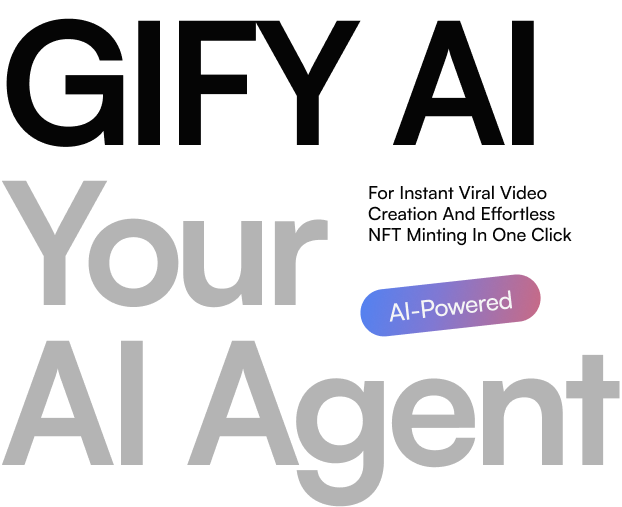
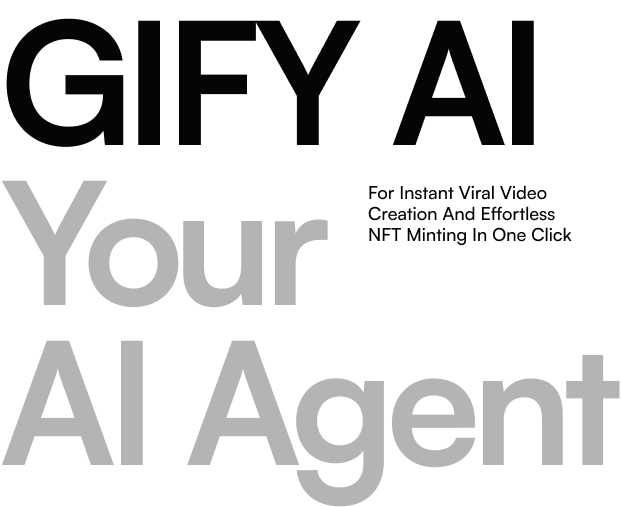
WIP

Changed region(s): [[0.5804, 0.5325, 0.8859, 0.6805]]

diff --git a/src/Components/Chat.jsx b/src/Components/Chat.jsx
@@ -2,14 +2,14 @@
 import { useState } from 'react';
 import chat from '../assets/chat__bg.svg';
 import icon from '../assets/icon.svg';
-import upload from '../assets/upload.png';
 import line from '../assets/line.svg';
-import animate from '../assets/animate.png';
 import loaderImage from '../assets/loader.png';
-import again from '../assets/again.png';
-import download from '../assets/download.png';
-import mint from '../assets/mint.png';
-import check from '../assets/check.png';
+import again from '../assets/again.svg';
+import download from '../assets/download.svg';
+import mint from '../assets/mint.svg';
+import check from '../assets/check.svg';
+import upload from '../assets/upload.svg';
+import animate from '../assets/animate.svg';
 
 const Chat = ({setChatTitle, setChatTitleClass}) => {
   // Состояние может принимать значения "idle", "loading" и "result"
@@ -76,9 +76,11 @@ const Chat = ({setChatTitle, setChatTitleClass}) => {
                 <h2 className="loading-column_title mb-10">NFT Title</h2>
                 <h2 className="loading-column_title mb-10">Description</h2>
                 <div className="loading-column_buttons">
-                  <a href="#" className="check-button">
-                    <img src={check} alt="Check" className="check _scale_hover" />
-                  </a>
+                  <button
+                    className="check-button _scale_hover button color__button"
+                  >
+                    <img src={check} alt="Check" /> Check
+                  </button>
                 </div>
               </>
             ) : (
@@ -88,25 +90,23 @@ const Chat = ({setChatTitle, setChatTitleClass}) => {
                 <h2 className="loading-column_title ">Description</h2>
                 <input type="text" className="loading-column_input" placeholder="Description" />
                 <div className="loading-column_buttons">
-                  <img
-                    src={mint}
-                    alt="Mint"
+                  <button
+                    className="mint _scale_hover button color__button"
                     
-                    className="mint _scale_hover"
                     onClick={() => {setMinted(true); setChatTitle(<>NFT <span>Minted</span></>);
                      setChatTitleClass("chat__title_minted");
                     }}
-                  />
-                  <img
-                    src={download}
-                    alt="Download"
-                    className="download _scale_hover"
+                  >
+                    <img src={mint} alt="Mint" /> Mint
+                  </button>
+                  <button
+                    className="download _scale_hover button black__button"
                     onClick={handleDownload}
-                  />
-                  <img
-                    src={again}
-                    alt="Again"
-                    className="again _scale_hover"
+                     >
+                    <img src={download} alt="Download" /> Download
+                  </button>
+                  <button
+                    className="again _scale_hover button white__button"
                     onClick={() => {
                       setLoadingPhase("idle");
                       setMinted(false);
@@ -114,7 +114,9 @@ const Chat = ({setChatTitle, setChatTitleClass}) => {
                       setChatTitle("Try GIFY AI");
                       setChatTitleClass("");
                     }}
-                  />
+                  >
+                    <img src={again} alt="Again" /> Again
+                  </button>
                 </div>
               </>
             )}
@@ -137,17 +139,14 @@ const Chat = ({setChatTitle, setChatTitleClass}) => {
       </div>
       <div className="chat__form">
         <input id="file" type="file" className="none" onChange={handleFileChange} />
-        <label htmlFor="file">
-          <img src={upload} alt="Upload" className="upload _scale_hover" />
+          <label htmlFor="file" className="upload white__button button _scale_hover">
+            <img src={upload} alt="" /> Upload
         </label>
         <img src={line} alt="Line" className="line" />
         <input className="chat__input" type="text" placeholder="Write your prompt" />
-        <img
-          src={animate}
-          alt="Animate"
-          className={`animate _scale_hover ${!uploadedImage ? 'disabled' : ''}`}
-          onClick={uploadedImage ? handleAnimateClick : null}
-        />
+        <button className={`animate animate black__button button  ${!uploadedImage ? 'disabled' : '_scale_hover'}`} onClick={uploadedImage ? handleAnimateClick : null}>
+            <img src={animate} alt="" /> Animate
+          </button>
       </div>
     </div>
   );

diff --git a/src/index.css b/src/index.css
@@ -197,6 +197,19 @@ background-clip: text;
 
 .try {
    margin-top: 50px;
+   padding: 9px;
+   padding-left: 49px;
+   display: flex;
+   align-items: center;
+   gap: 35px;
+   border-radius: 118.75px;
+background: #22282B;
+   color: #FFF;
+font-family: Satoshi;
+font-size: 29.688px;
+font-style: normal;
+font-weight: 500;
+line-height: 1.5; /* 150% */
 }
 
 .main_content {
@@ -668,25 +681,7 @@ background-clip: text;
 -webkit-text-fill-color: transparent;
 }
 
-.black__button {
-   color: #FFF;
-text-align: center;
-font-family: Satoshi;
-font-size: 16px;
-font-style: normal;
-font-weight: 500;
-line-height: 1.625;
-padding: 6px 20px;
-display: flex;
-align-items: center;
-gap: 12px;
-border-radius: 71.141px;
-border: 1.002px solid #F5F5F5;
-background: #22282B;
-}
-
-.white__button {
-   color: #22282B;
+.button {
    text-align: center;
    font-family: Satoshi;
    font-size: 16px;
@@ -698,7 +693,47 @@ background: #22282B;
    align-items: center;
    gap: 12px;
    border-radius: 71.141px;
+}
+
+.black__button {
+   color: #FFF;
+border: 1.002px solid #F5F5F5;
+background: #22282B;
+}
+
+.white__button {
+   color: #22282B;
    border: 1.002px solid #22282B;
+}
+
+.color__button {
+   color: #FFF;
+   border-radius: 71.141px;
+background: linear-gradient(91deg, #2A61E8 0.42%, #5B4DE8 35.5%, #FF4D68 95.91%), #22282B;
+}
+
+.title__wrap {
+   position: relative;
+}
+
+.ai {
+   position: absolute;
+   right: 0;
+   top: 0;
+   
+   color: #F5F5F5;
+text-align: center;
+font-family: Satoshi;
+font-size: 24.424px;
+font-style: normal;
+transform: rotate(-6.298deg);
+font-weight: 500;
+line-height: 120%; /* 29.308px */
+letter-spacing: -0.488px;
+padding: 9px 27px;
+max-width: 181px;
+border-radius: 106.854px;
+background: linear-gradient(95deg, #5581EF 3.82%, #8078D3 42.41%, #D46878 108.87%);
 }
 
 
@@ -715,8 +750,7 @@ background: #22282B;
    .title {
       width: 45vw;
    }.try {
-      width: 23vw;
-      min-width: 300px;
+
       margin-top: 0;
    }
 }
@@ -981,6 +1015,17 @@ max-width: 300px;
 @media  (max-width: 500px) {
    .gallery_section {
       margin-bottom: 20px;
+   }
+   .try {
+      gap: 30px;
+      font-size: 25.938px;
+      padding: 8px;
+      padding-left: 41px;
+   }
+   .try img {
+      width: 67px;
+      height: 67px;
+
    }
    .chat__window .icon.uploaded {
       max-width: 80vw;

diff --git a/src/App.jsx b/src/App.jsx
@@ -2,7 +2,6 @@ import './App.css'
 import 'aos/dist/aos.css';
 import content from './assets/content.png'
 import title from './assets/title.png'
-import try_ from './assets/try.png'
 import 'swiper/css';
 import 'swiper/css/navigation';
 import 'swiper/css/pagination';
@@ -27,6 +26,7 @@ import RoadMapItem from './Components/RoadMapItem'
 import Chat from './Components/Chat'
 import title_mb from './assets/title_mb.png'
 import Header from './Components/Header'
+import try_svg from './assets/try.svg'
 
 function App() {
    //const [showModal, setShowModal] = useState(false);
@@ -46,13 +46,17 @@ function App() {
             <Header />
             <section className="first">
                <div className="first__left">
-                  <img src={title} alt="" className="title hide-700" />
-                  <img src={title_mb} alt="" className="title_mb show-700" />
+                  <div className="title__wrap">
+                     <img src={title} alt="" className="title hide-700" />
+                     <img src={title_mb} alt="" className="title_mb show-700" />
+                     <div className="ai">AI-Powered</div>
+                     
+                  </div>
                   <p className="first__left_text show-700">for instant viral video creation and effortless NFT minting in one click</p>
-                  <a href="#app" ><img src={try_} alt="" className="try _scale_hover hide-700" /></a>
+                  <a href="#app" className='hide-700' ><button className="try _scale_hover">Try GIFY AI <img src={try_svg} alt="" /> </button></a>
                </div>
                <img  src={content} alt="" className="main_content" />
-               <a href="#app" ><img src={try_} alt="" className="try _scale_hover show-700" /></a>
+               <a href="#app" className='show-700' ><button className="try _scale_hover">Try GIFY AI <img src={try_svg} alt="" /> </button></a>
 
             </section>
             <div id="gallery" className="gallery_section">

diff --git a/src/Components/Header.jsx b/src/Components/Header.jsx
@@ -67,9 +67,9 @@ const Header = () => {
         <a href="#faq" className="menu__link _scale_hover">FAQ</a>
       </nav>
       <div className="header__right header__full-menu">
-        <a href='#app'><button className="create _scale_hover white__button"><img src={create_svg} alt="" /> Create video</button></a>
+        <a href='#app'><button className="create _scale_hover button white__button"><img src={create_svg} alt="" /> Create video</button></a>
         <img src={line} alt="" className="line" />
-        <button className="connect _scale_hover black__button"><img src={connect_svg} alt="" /> Connect wallet</button>
+        <button className="connect _scale_hover button black__button"><img src={connect_svg} alt="" /> Connect wallet</button>
       </div>
 
       {/* Мобильное меню */}
@@ -101,8 +101,8 @@ const Header = () => {
             </a>
           </div>
           <div className="mobile-menu__right">
-            <a href='#app'><button className="create _scale_hover">Create video</button></a>
-            <button className="connect _scale_hover">connect wallet</button>
+            <a href='#app'><button className="create _scale_hover button white__button"><img src={create_svg} alt="" /> Create video</button></a>
+            <button className="connect _scale_hover button black__button"><img src={connect_svg} alt="" /> Connect wallet</button>
           </div>
         </div>
       )}
